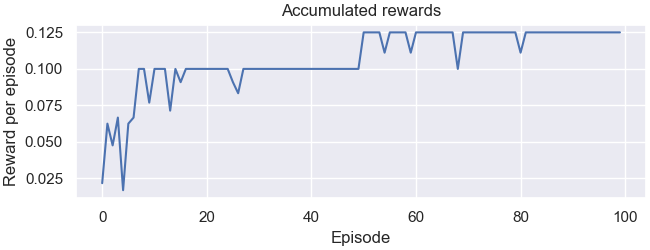
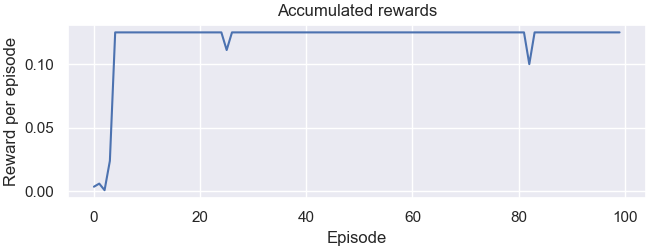
Various updates
Updated plots and codes

diff --git a/q_learning_method.py b/q_learning_method.py
@@ -143,7 +143,7 @@ for row in range(0, gridSize):
 # Plotting
 sns.set_theme(style='darkgrid')
 fig, ax = plt.subplots(nrows=1, ncols=1)
-ax = sns.heatmap(data=valueTable, cmap='crest', linewidths=0.5, linecolor='white', annot=True)
+ax = sns.heatmap(data=valueTable, cmap='crest', linewidths=0.8, linecolor='white', annot=True)
 ax.set_title('Final value table')
 plt.savefig('figures/ql_final_value_table.png')
 plt.show()
